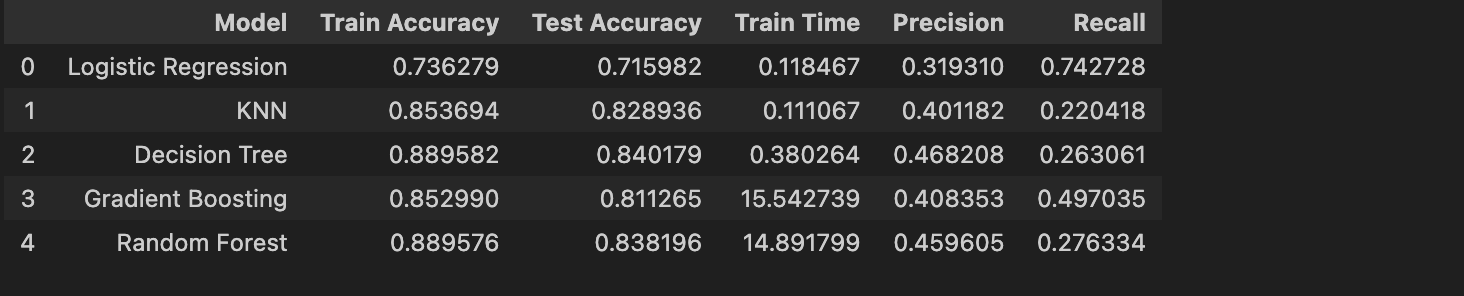
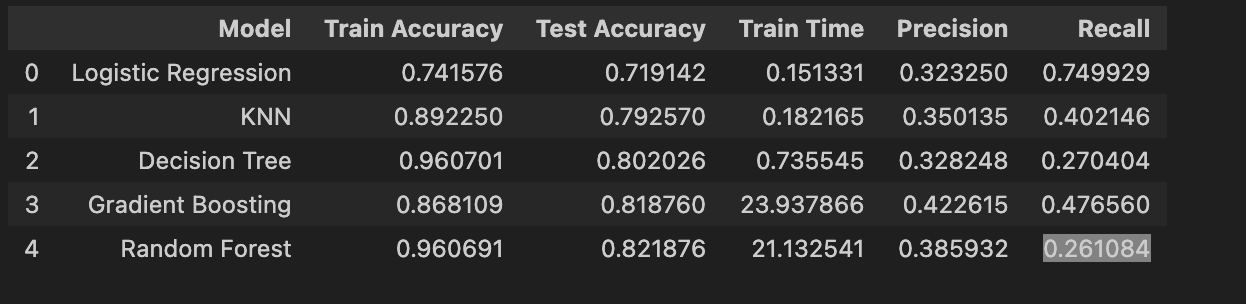
updated

diff --git a/README.md b/README.md
@@ -50,10 +50,10 @@ https://github.com/hegdesan-us/final_project/blob/974831496ba529572c964c566717a4
 
 **Directory : data** \
  Description : Contains the data file needed for the class project\
- iabetes _ 012 _ health _ indicators _ BRFSS2015.csv is a clean dataset of 253,680 survey responses to the CDC's BRFSS2015. The target variable Diabetes_012 has 3 classes. 0 is for no diabetes or only during pregnancy, 1 is for prediabetes, and 2 is for diabetes. There is class imbalance in this dataset. This dataset has 21 feature variables
+ diabetes _ 012 _ health _ indicators _ BRFSS2015.csv is a clean dataset of 253,680 survey responses to the CDC's BRFSS2015. The target variable Diabetes_012 has 3 classes. 0 is for no diabetes or only during pregnancy, 1 is for prediabetes, and 2 is for diabetes. There is class imbalance in this dataset. This dataset has 21 feature variables
 
 
-### Data Preperation
+### Data Preparation
  - No missing values found in the dataset
 
  ![MissingDataImage](images/missing.png)
@@ -91,11 +91,11 @@ https://github.com/hegdesan-us/final_project/blob/974831496ba529572c964c566717a4
 - Individuals diagnosed with Diabetes exhibit a significantly greater incidence of hypertension compared to those without the condition
   -- Given the sample set ~24.8% non-high BP person having diabetes vs 75.2% high-BP individuals having diabetes
 - Individuals diagnosed with Diabetes exhibit a significantly higher cholesterol compared to those without the condition
-  -- Given the sample set ~33.1% non-high cholestrol person having diabetes vs 66.9% high-cholestrol individuals having diabetes
+  -- Given the sample set ~33.1% non-high cholesterol person having diabetes vs 66.9% high-cholesterol individuals having diabetes
 - Individuals with Veggie consumption more than one time per fay seems to have high volume of diabetes. This needs further data exploration
 - Did not see significant correlation between alcohol consumption and diabetes. 
-  -- Sample size is skewed towards non-alcohotic individuals ( > 15000 samples for non-alcoholic vs < 5000 alcoholics)
-- Colestrol check from past 5 years identified patients with Diabetes. This could be a  good information for preventive diagnosis
+  -- Sample size is skewed towards non-alcoholic individuals ( > 15000 samples for non-alcoholic vs < 5000 alcoholics)
+- Cholesterol check from past 5 years identified patients with Diabetes. This could be a  good information for preventive diagnosis
 - There is no significant correlation with Sex or smoker
   -- Very small difference ( 51.9% vs 48.1%) difference in individuals with diabetes who smoke vs non-smokers
 - There is ~75% Non-diabetic for the individuals with Physical Activity vs 28% non-diabetic. This is an amazing correlation.
@@ -109,33 +109,42 @@ https://github.com/hegdesan-us/final_project/blob/974831496ba529572c964c566717a4
 **Observation from the heatmap**
 
 Following few features has high Correlation
-- Education
-- PhysHlth
+
 - Gen Health
 - HighBP
 - DiffWalk
+- HihgChol
 
 Following features has low correlation
-- Income
+
+- Fruits
 - Veggies
-- Stroke
-- BMI
+- MentHlth
+- Sex
+
+Random Observations
+
+- Education and Income are highly correlated with each other
+- DiffWalk and PhysHlth are high correlated with each other
+- HighBP and Age are correlated with each other
 
  
 ## Major features for the Machine Learning Models SelectKBest feature selection
 **Observation** 
-- Feature selection based on SelectKBest gives following top features
-- ['HighBP', 'GenHlth', 'HighChol', 'Age', 'BMI']
+- Feature selection based on Lasso gives following top features. Considering Lasso just zeros columns not important, I have decided to use Ridge
+  - ['HighBP', 'GenHlth', 'HighChol', 'Age', 'BMI']
+- Feature selection based on Ridge gives following top features. I have opted with Ridge feature selection.
+  - ['GenHlth', 'HighBP', 'BMI', 'Age', 'HighChol', 'HvyAlcoholConsump','CholCheck', 'Sex', 'Income', 'PhysHlth']
 
 
 ## Baseline performance measurement
-Determine the baseline perfromance using Dummy Classifier. 
+Determine the baseline performance using Dummy Classifier. 
 
-**Observation** Baseline performance using Dummy Classifier  has ~50% test and 84% train with 0 precision and accuracy.
+**Observation** Baseline performance using Dummy Classifier  has ~50% test and 84% train with 0 precision and accuracy. This means, model is completely un-reliable at this time. 
 
 ![Baseline Performance Measurement](images/Dummy.png)
 
-## Model performance comparision
+## Model performance comparison
 Now, we aim to compare the performance of the Dummy Classifier with Logistic Regression model ,  KNN algorithm, Decision Tree, and Gradient Boost models.  Using the default settings for each of the models, fit and score each.  
 
 **Observation** Decision Tree Model showed 84% test accuracy with 0.24 recall compared to other models.  
@@ -144,13 +153,23 @@ Now, we aim to compare the performance of the Dummy Classifier with Logistic Reg
 ![Performance without hyper parameter tuning](images/Performance.png)
  
 
-## Model performance comparision after Hyper Parameter Tuning
+## Model performance comparison after Hyper Parameter Tuning
 precision focuses on minimizing false positives (incorrectly identifying a healthy individual as having a condition), while recall prioritizes identifying all actual cases (minimizing false negatives, or missing real cases). For this analysis, we focus on precision. 
 
-**Observation** GradientBoosting with has the precision of 0.48 and  recall of 0.29. This model has provided the accuracy rate of 84% on the test data.  However, it is computationally intensive. 
+**Observation ( Using Lasso )** 
+
+Random Forest seems to show 82% test accuracy with low recall rate of 0.26. Gradient Boosting has significantly high recall rate which could be problematic in this analysis considering we are working with health data.   
 
 
-![Performance with hyper parameter tuning](images/Performance-hyper.png)
+![Performance with hyper parameter tuning](images/Performance-hyper-Lasso.png)
+
+**Observation ( Using Ridge )** 
+Random Forest seems to show 82% test accuracy with low recall rate of 0.26. Gradient Boosting has significantly high recall rate which could be problematic in this analysis considering we are working with health data.   
+
+
+![Performance with hyper parameter tuning](images/Performance-hyper-Ridge.png)
+
+
 
 ## Summary of research questions
 
@@ -159,7 +178,7 @@ precision focuses on minimizing false positives (incorrectly identifying a healt
 From the data provided above and the model, with 80-85% accuracy that we can provide prediction of diabetes. Recall rate seems still high needs more parameter tuning to improve the recall rate.
 
 **What risk factors are most predictive of diabetes risk?**
-
+Considering Lasso and Ridge based feature selection both has similar accuracy and precision, we could just use following features from Lasso for model building.
 HighBP', 'GenHlth', 'HighChol', 'Age', 'BMI' are the risk factors are most predictive of diabetes risk
 
 **Can we use a subset of the risk factors to accurately predict whether an individual has diabetes?**
